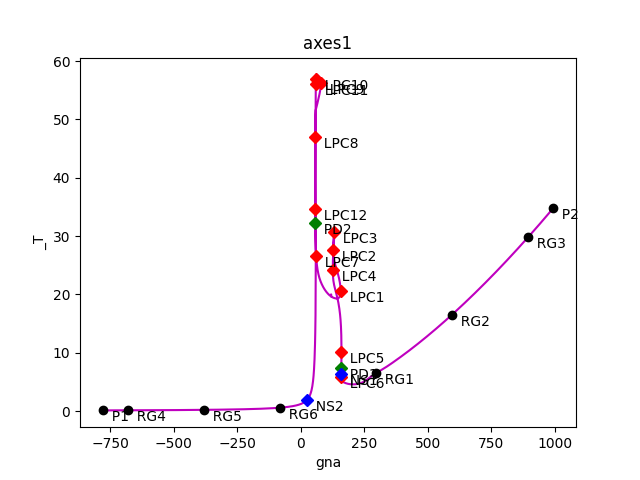
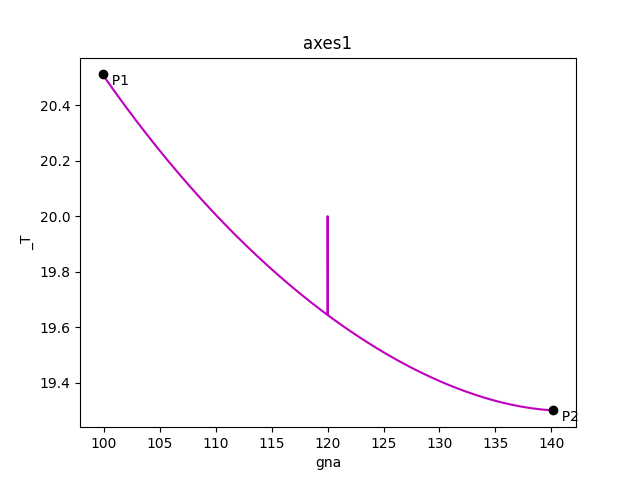
added bounds to limit cycle continuation in pycont
the bounds only seemed to work for pycont when not doing limit cycle continuation. I can't find any reference to StopAtPoints or TestFuncs in the LimitCycleCurve continuation class.
I have added rl0 and rl1 (lower and upper bounds on parameter) into the data in auto.c and added code to set it up using automod.c and SetData

diff --git a/PyDSTool/PyCont/Continuation.py b/PyDSTool/PyCont/Continuation.py
@@ -3384,6 +3384,13 @@ class LimitCycleCurve(Continuation):
                 iuz.extend(len(v)*[pind])
                 vuz.extend(v)
             nuzr = len(iuz)
+        
+        #Set bounds on parameter
+        if 'B' in self.StopAtPoints:
+            rl0, rl1 = self.gensys.pdomain[self.freepars[0]]
+        else:
+            rl0 = -Inf
+            rl1 = Inf
 
         self._autoMod.SetData(2,    # Problem type (ips)
                               ilp,    # No fold detection (ilp)
@@ -3405,6 +3412,8 @@ class LimitCycleCurve(Continuation):
                               direc*self.StepSize,
                               self.MinStepSize,
                               self.MaxStepSize,
+                              rl0,
+                              rl1,
                               self.NumSPOut,
                               self.DiagVerbosity,
                               self.freeparsdim + self.auxparsdim,    # len(freepars)

diff --git a/PyDSTool/PyCont/auto/module/automod.c b/PyDSTool/PyCont/auto/module/automod.c
@@ -38,7 +38,7 @@ int Initialize( void ) {
 /* Needs to set main data for auto computation and before call to SetInitPoint */
 int SetData(int ips, int ilp, int isw, int isp, int sjac, int sflow, int nsm, int nmx, int ndim, 
                   int ntst, int ncol, int iad, double epsl, double epsu, double epss, int itmx,
-                  int itnw, double ds, double dsmin, double dsmax, int npr, int iid,
+                  int itnw, double ds, double dsmin, double dsmax, double rl0, double rl1, int npr, int iid,
                   int nicp, int *icp, int nuzr, int *iuz, double *vuz) {
     int i;
 
@@ -63,6 +63,8 @@ int SetData(int ips, int ilp, int isw, int isp, int sjac, int sflow, int nsm, in
     gIData->rap.ds = ds;
     gIData->rap.dsmin = dsmin;
     gIData->rap.dsmax = dsmax;
+    gIData->rap.rl0 = rl0;
+    gIData->rap.rl1 = rl1;
     
     gIData->sjac = sjac;
     gIData->sflow = sflow;

diff --git a/PyDSTool/PyCont/auto/module/include/automod.h b/PyDSTool/PyCont/auto/module/include/automod.h
@@ -10,7 +10,7 @@ int Initialize(void);
 
 int SetData(int ips, int ilp, int isw, int isp, int sjac, int sflow, int nsm, int nmx, int ndim, 
                   int ntst, int ncol, int iad, double epsl, double epsu, double epss, int itmx,
-                  int itnw, double ds, double dsmin, double dsmax, int npr, int iid,
+                  int itnw, double ds, double dsmin, double dsmax, double rl0, double rl1, int npr, int iid,
                   int nicp, int *icp, int nuzr, int *iuz, double *vuz);
                       
 int SetInitPoint(double *u, int npar, int *ipar, double *par, int *icp, int nups,

diff --git a/tmp/hh.py b/tmp/hh.py
@@ -20,6 +20,7 @@ DSargs = args(name='hh')
 DSargs.pars = pars
 DSargs.varspecs = {'V': Vstr, 'm': mstr, 'h': hstr, 'n': nstr, 's': sstr}
 DSargs.ics = icdict
+DSargs.pdomain = {'gna': [100,140]}
 DSargs.tdata = [0,100]
 
 DS = Generator.Radau_ODEsystem(DSargs)
@@ -101,6 +102,7 @@ PCargs.VarTol = 1e-3
 PCargs.FuncTol = 1e-3
 PCargs.initcycle = cycle
 PCargs.LocBifPoints = 'all' #Helps with stability (lots of nearby LP and PD) - avoids MX termination points immediatly appearing and stopping continuation
+PCargs.StopAtPoints = 'B'
 PCargs.verbosity = 0
 P.newCurve(PCargs)
 
